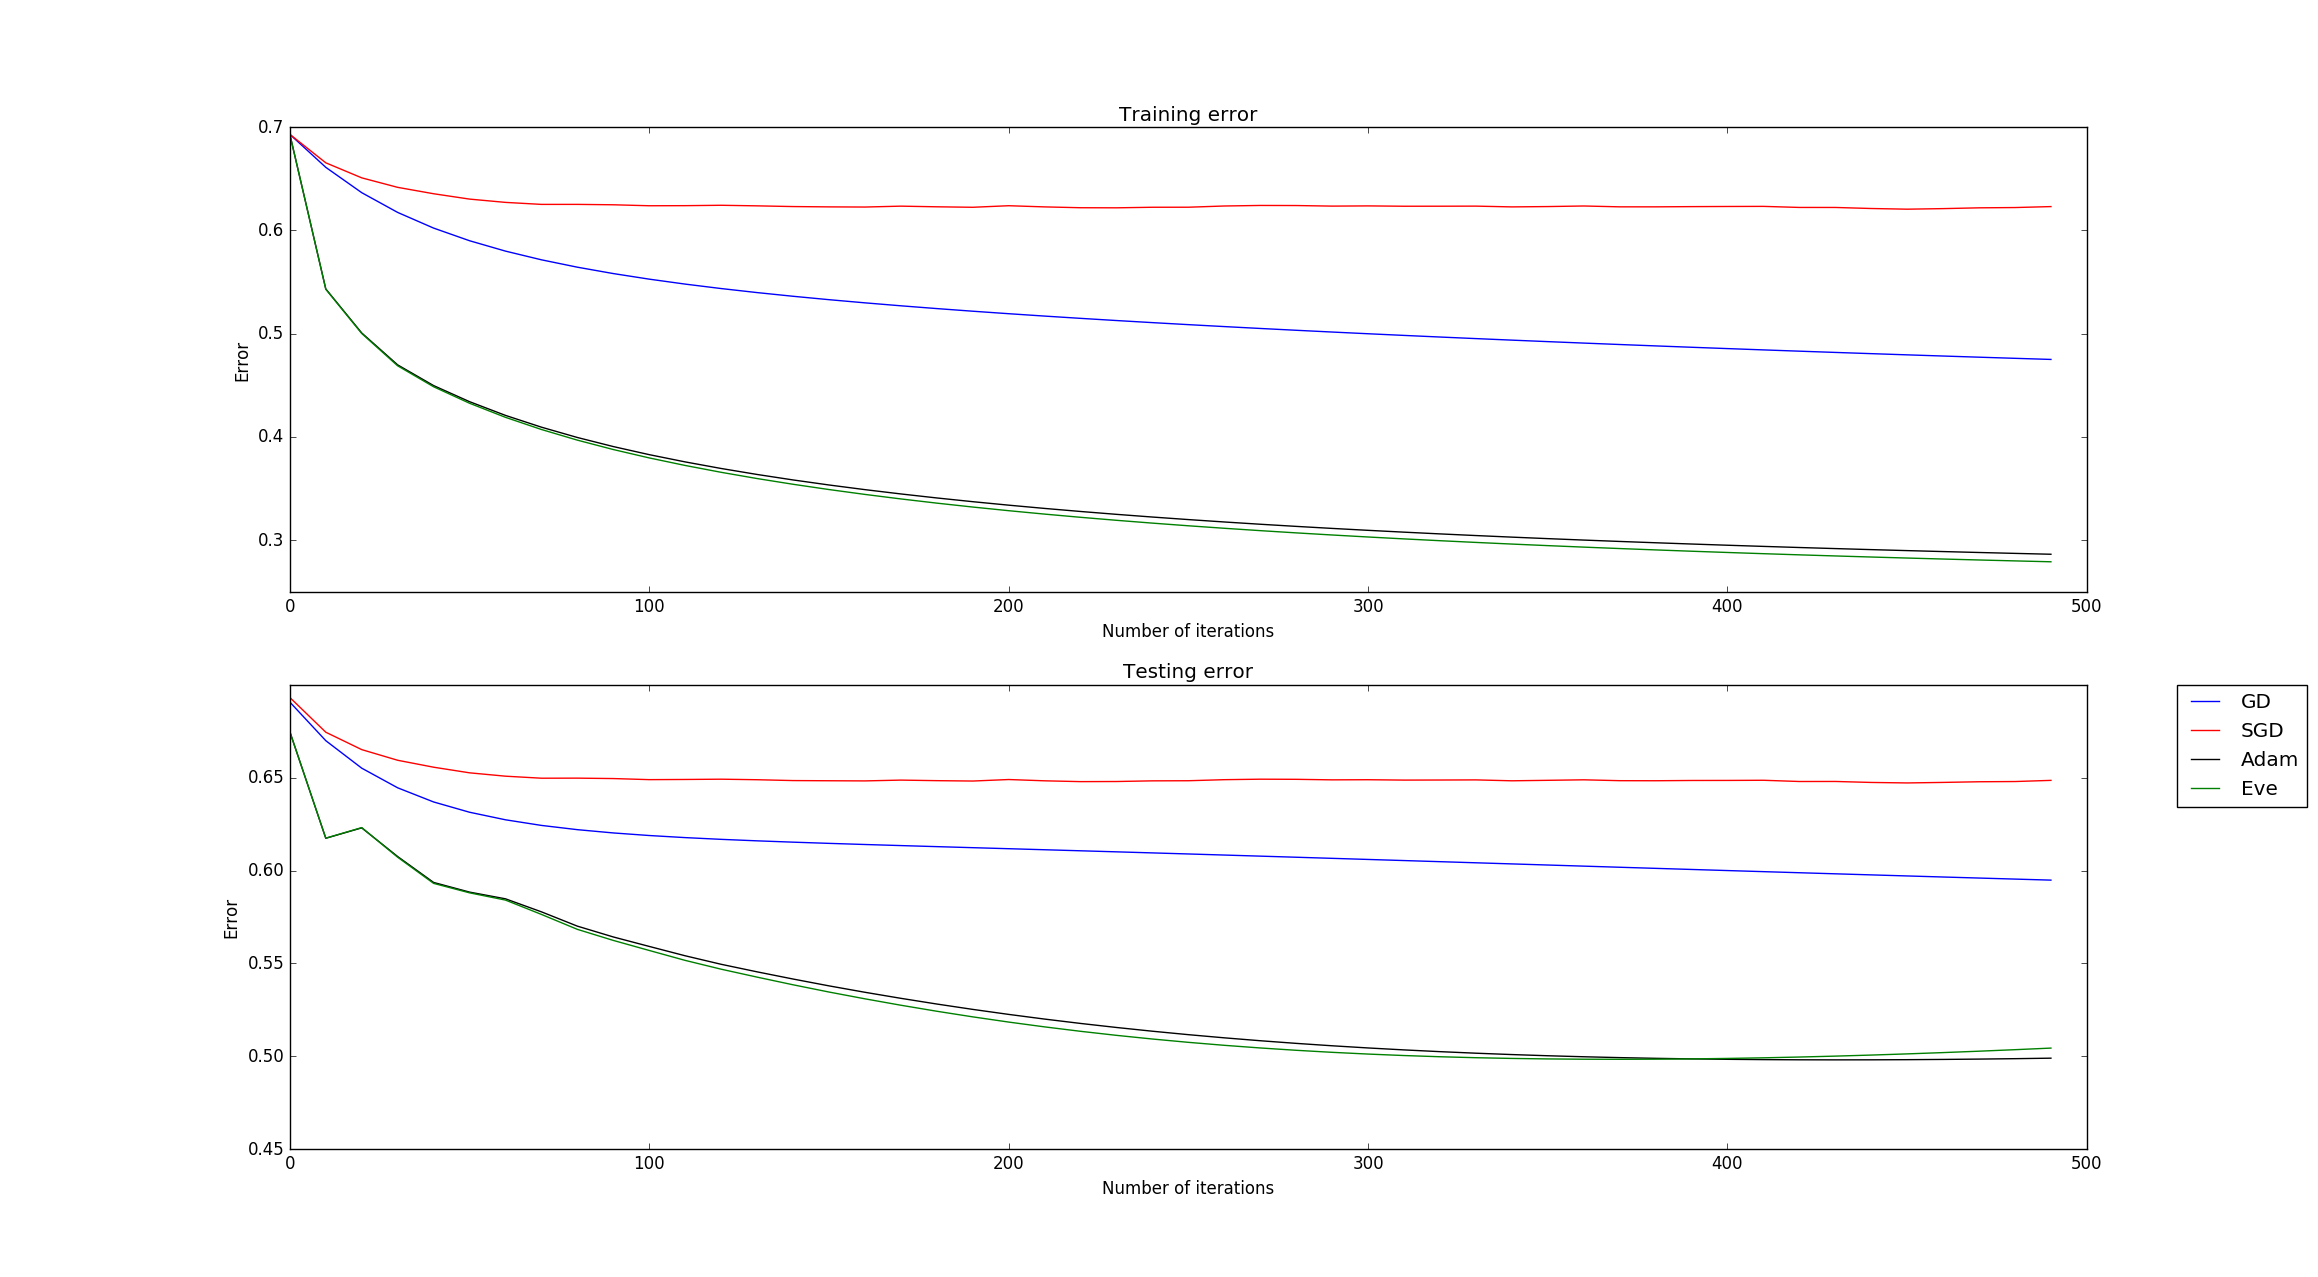
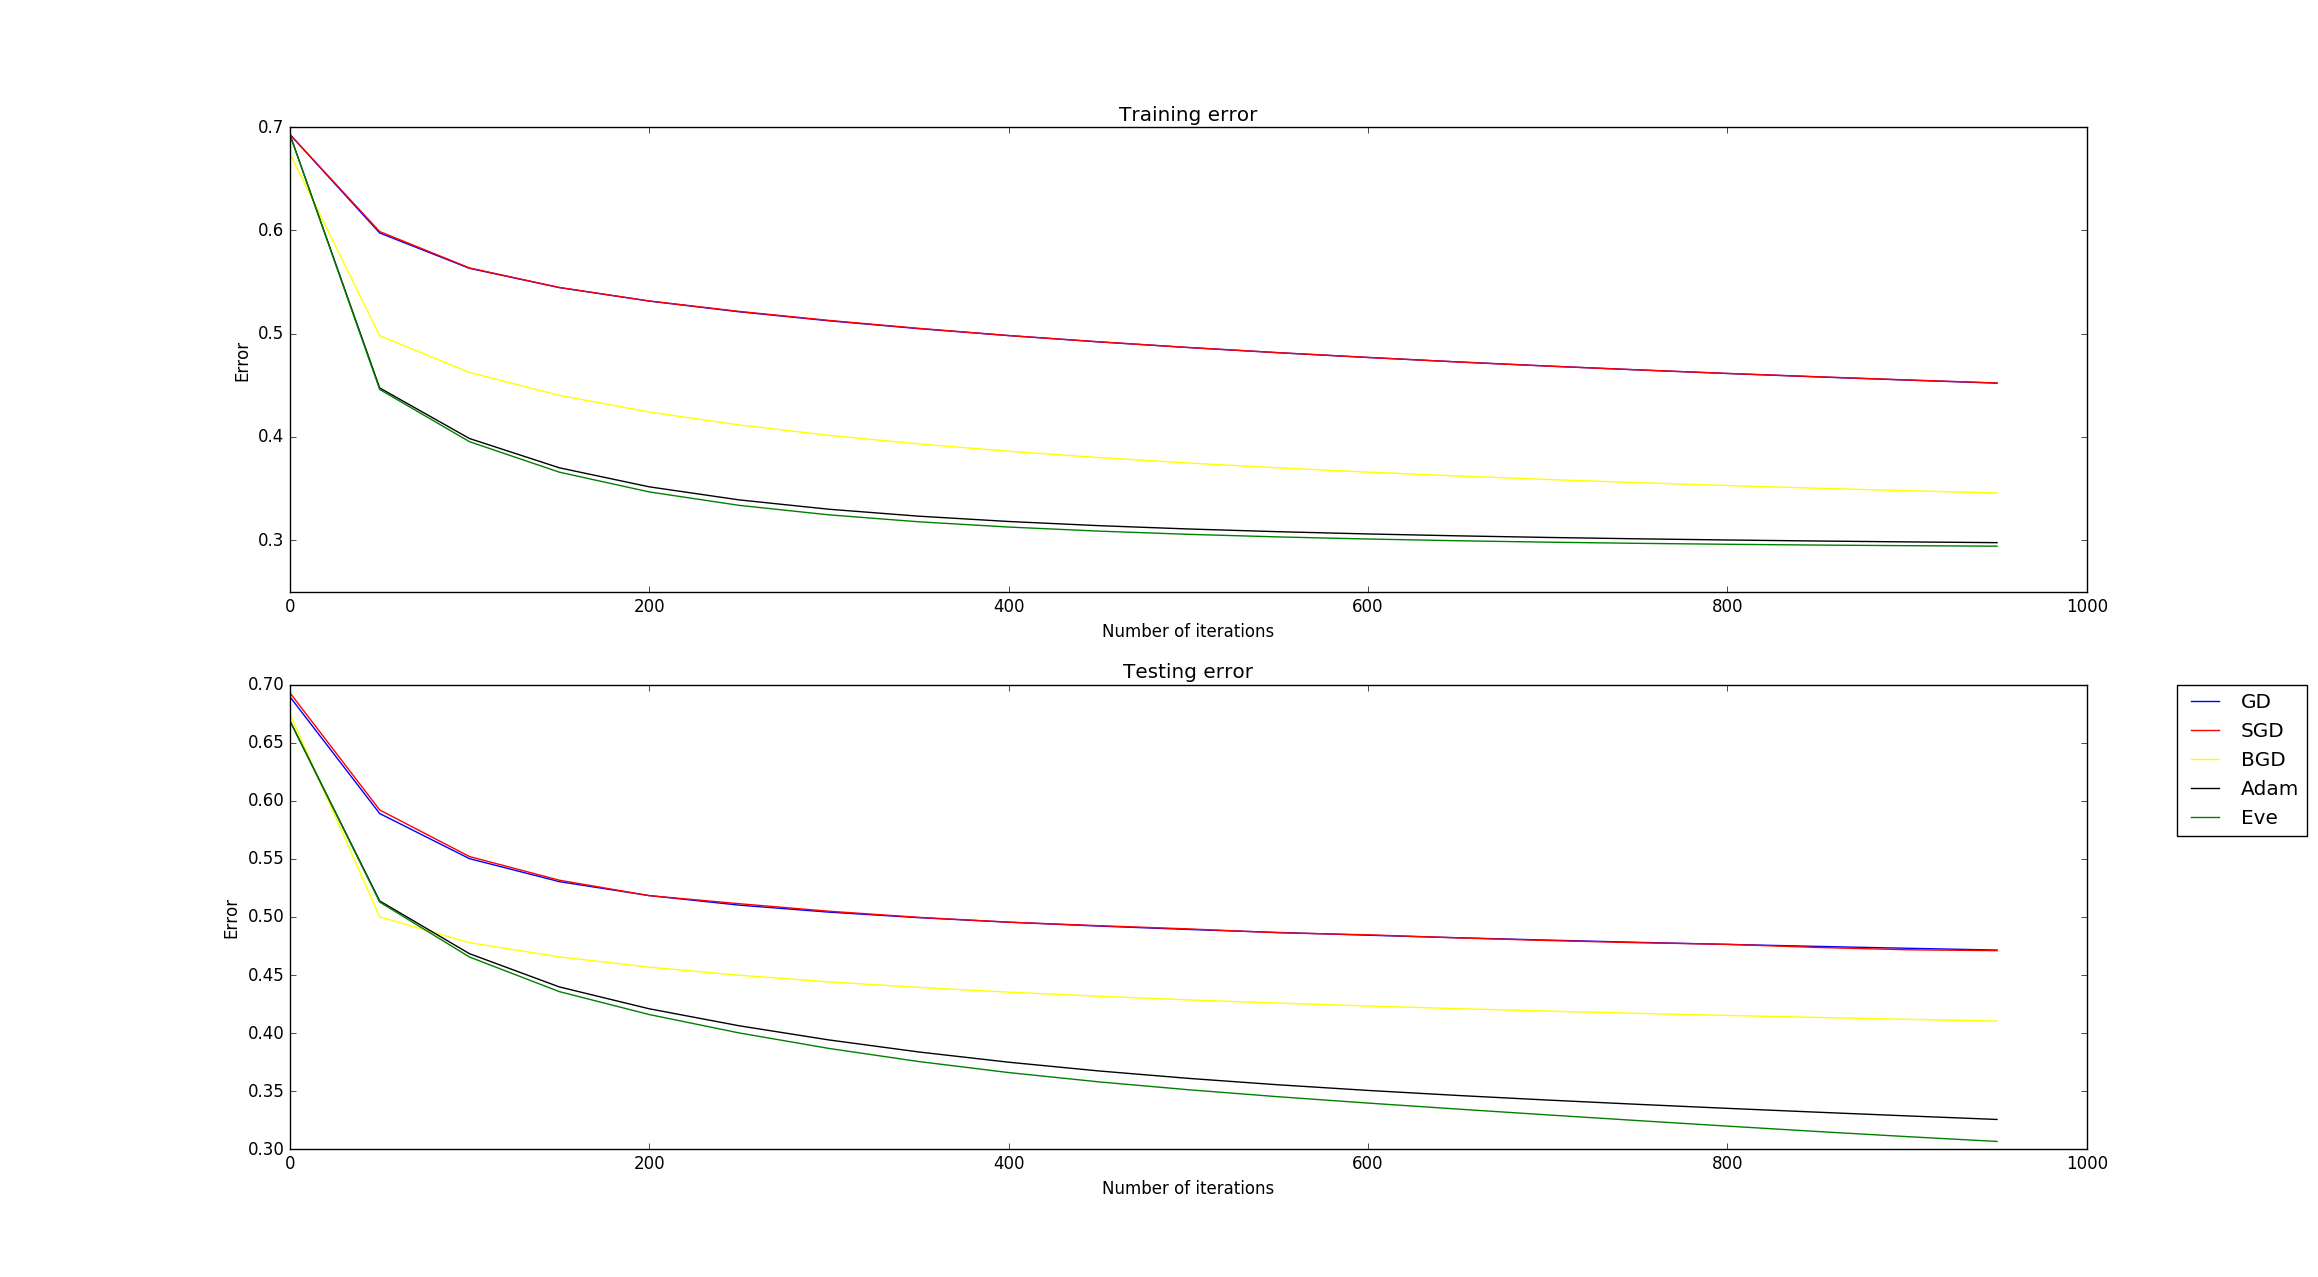
Update results

diff --git a/performances.py b/performances.py
@@ -4,9 +4,10 @@ import matplotlib.patches as mpatches
 import dataExtraction as de
 import gradientDescent as gd
 
-MAXITER = 500
+MAXITER = 1000
 LRATE = 0.01
-TTIME = 10
+TTIME = 50
+SHUFFLED = True
 
 ttime = range(0, MAXITER, TTIME)
 
@@ -14,13 +15,15 @@ train, trainLabels, test, testLabels = de.ionosphere(0.1)
 
 print("TESTS : {} iterations, learning rate {}".format(MAXITER, LRATE))
 print("GRADIENT DESCENT")
-weight, trainG, testG = gd.gradientDescent(train, trainLabels, test, testLabels, maxIter = MAXITER, learningRate = LRATE, testTime = TTIME)
+weight, trainG, testG = gd.gradientDescent(train, trainLabels, test, testLabels, maxIter = MAXITER, learningRate = LRATE, testTime = TTIME, shuffled = SHUFFLED)
 print("STOCHASTIC GRADIENT DESCENT")
 weight, trainS, testS = gd.stochasticGradientDescent(train, trainLabels, test, testLabels, maxIter = MAXITER, learningRate = LRATE, testTime = TTIME)
+print("BATCH GRADIENT DESCENT")
+weight, trainB, testB = gd.batchGradientDescent(train, trainLabels, test, testLabels, maxIter = MAXITER, learningRate = LRATE, testTime = TTIME, shuffled = SHUFFLED)
+print("ADAM GRADIENT DESCENT")
+weight, trainA, testA = gd.adamGradientDescent(train, trainLabels, test, testLabels, maxIter = MAXITER, learningRate = LRATE, testTime = TTIME, shuffled = SHUFFLED)
 print("EVE GRADIENT DESCENT")
-weight, trainA, testA = gd.adamGradientDescent(train, trainLabels, test, testLabels, maxIter = MAXITER, learningRate = LRATE, testTime = TTIME)
-print("EVE GRADIENT DESCENT")
-weight, trainE, testE = gd.eveGradientDescent(train, trainLabels, test, testLabels, maxIter = MAXITER, learningRate = LRATE, testTime = TTIME)
+weight, trainE, testE = gd.eveGradientDescent(train, trainLabels, test, testLabels, maxIter = MAXITER, learningRate = LRATE, testTime = TTIME, shuffled = SHUFFLED)
 
 plt.figure(1)
 
@@ -28,6 +31,7 @@ plt.figure(1)
 plt.subplot(211)
 plt.plot(ttime, trainG, color="blue", linewidth=1.0, linestyle="-", label="GD")
 plt.plot(ttime, trainS, color="red", linewidth=1.0, linestyle="-", label="SGD")
+plt.plot(ttime, trainB, color="yellow", linewidth=1.0, linestyle="-", label="BGD")
 plt.plot(ttime, trainA, color="black", linewidth=1.0, linestyle="-", label="Adam")
 plt.plot(ttime, trainE, color="green", linewidth=1.0, linestyle="-", label="Eve")
 plt.xlim(0, MAXITER)
@@ -39,6 +43,7 @@ plt.title('Training error')
 plt.subplot(212)
 plt.plot(ttime, testG, color="blue", linewidth=1.0, linestyle="-", label="GD")
 plt.plot(ttime, testS, color="red", linewidth=1.0, linestyle="-", label="SGD")
+plt.plot(ttime, testB, color="yellow", linewidth=1.0, linestyle="-", label="BGD")
 plt.plot(ttime, testA, color="black", linewidth=1.0, linestyle="-", label="Adam")
 plt.plot(ttime, testE, color="green", linewidth=1.0, linestyle="-", label="Eve")
 plt.xlim(0, MAXITER)

diff --git a/README.md b/README.md
@@ -13,7 +13,7 @@ To download data (at the first use), execute :
 python3.5 dataExtraction.py
 ```
 
-To compute a comparison of the different algorithm, execute :  
+To compute a comparison of the different algorithms, execute :  
 ```
 python3.5 performances.py
 ```
@@ -23,11 +23,12 @@ All the needed algorithm are present in the gradientDescent.py file.
 ## Results
 We compute the comparison on the dataset : [Ionosphere Data Set](http://archive.ics.uci.edu/ml/datasets/Ionosphere). The goal is to predict the class of the radar.  
 
-Error after 500 iterations :  
-![Result](https://raw.githubusercontent.com/Jeanselme/Eve/master/Images/Results.png)
+Error after 1000 iterations :  
+![Results](https://raw.githubusercontent.com/Jeanselme/Eve/master/Images/Results.png)
 
 This Figure shows the imporvement implied by Adam algorithm which has an impressive error decrease. Moreover, it highlights the adavantage of an auto adaptative learning rate on training error.  
-However, this shows that overfitting is emphasized by the auto adaptative learning rate.
+
+Moreover, the data are shuffled at the beginning of each iteration, that has a huge benefit on the total error.
 
 ## Libraries
 Needs numpy, os, pandas and urllib.request. Executed with python3.5 on Linux
